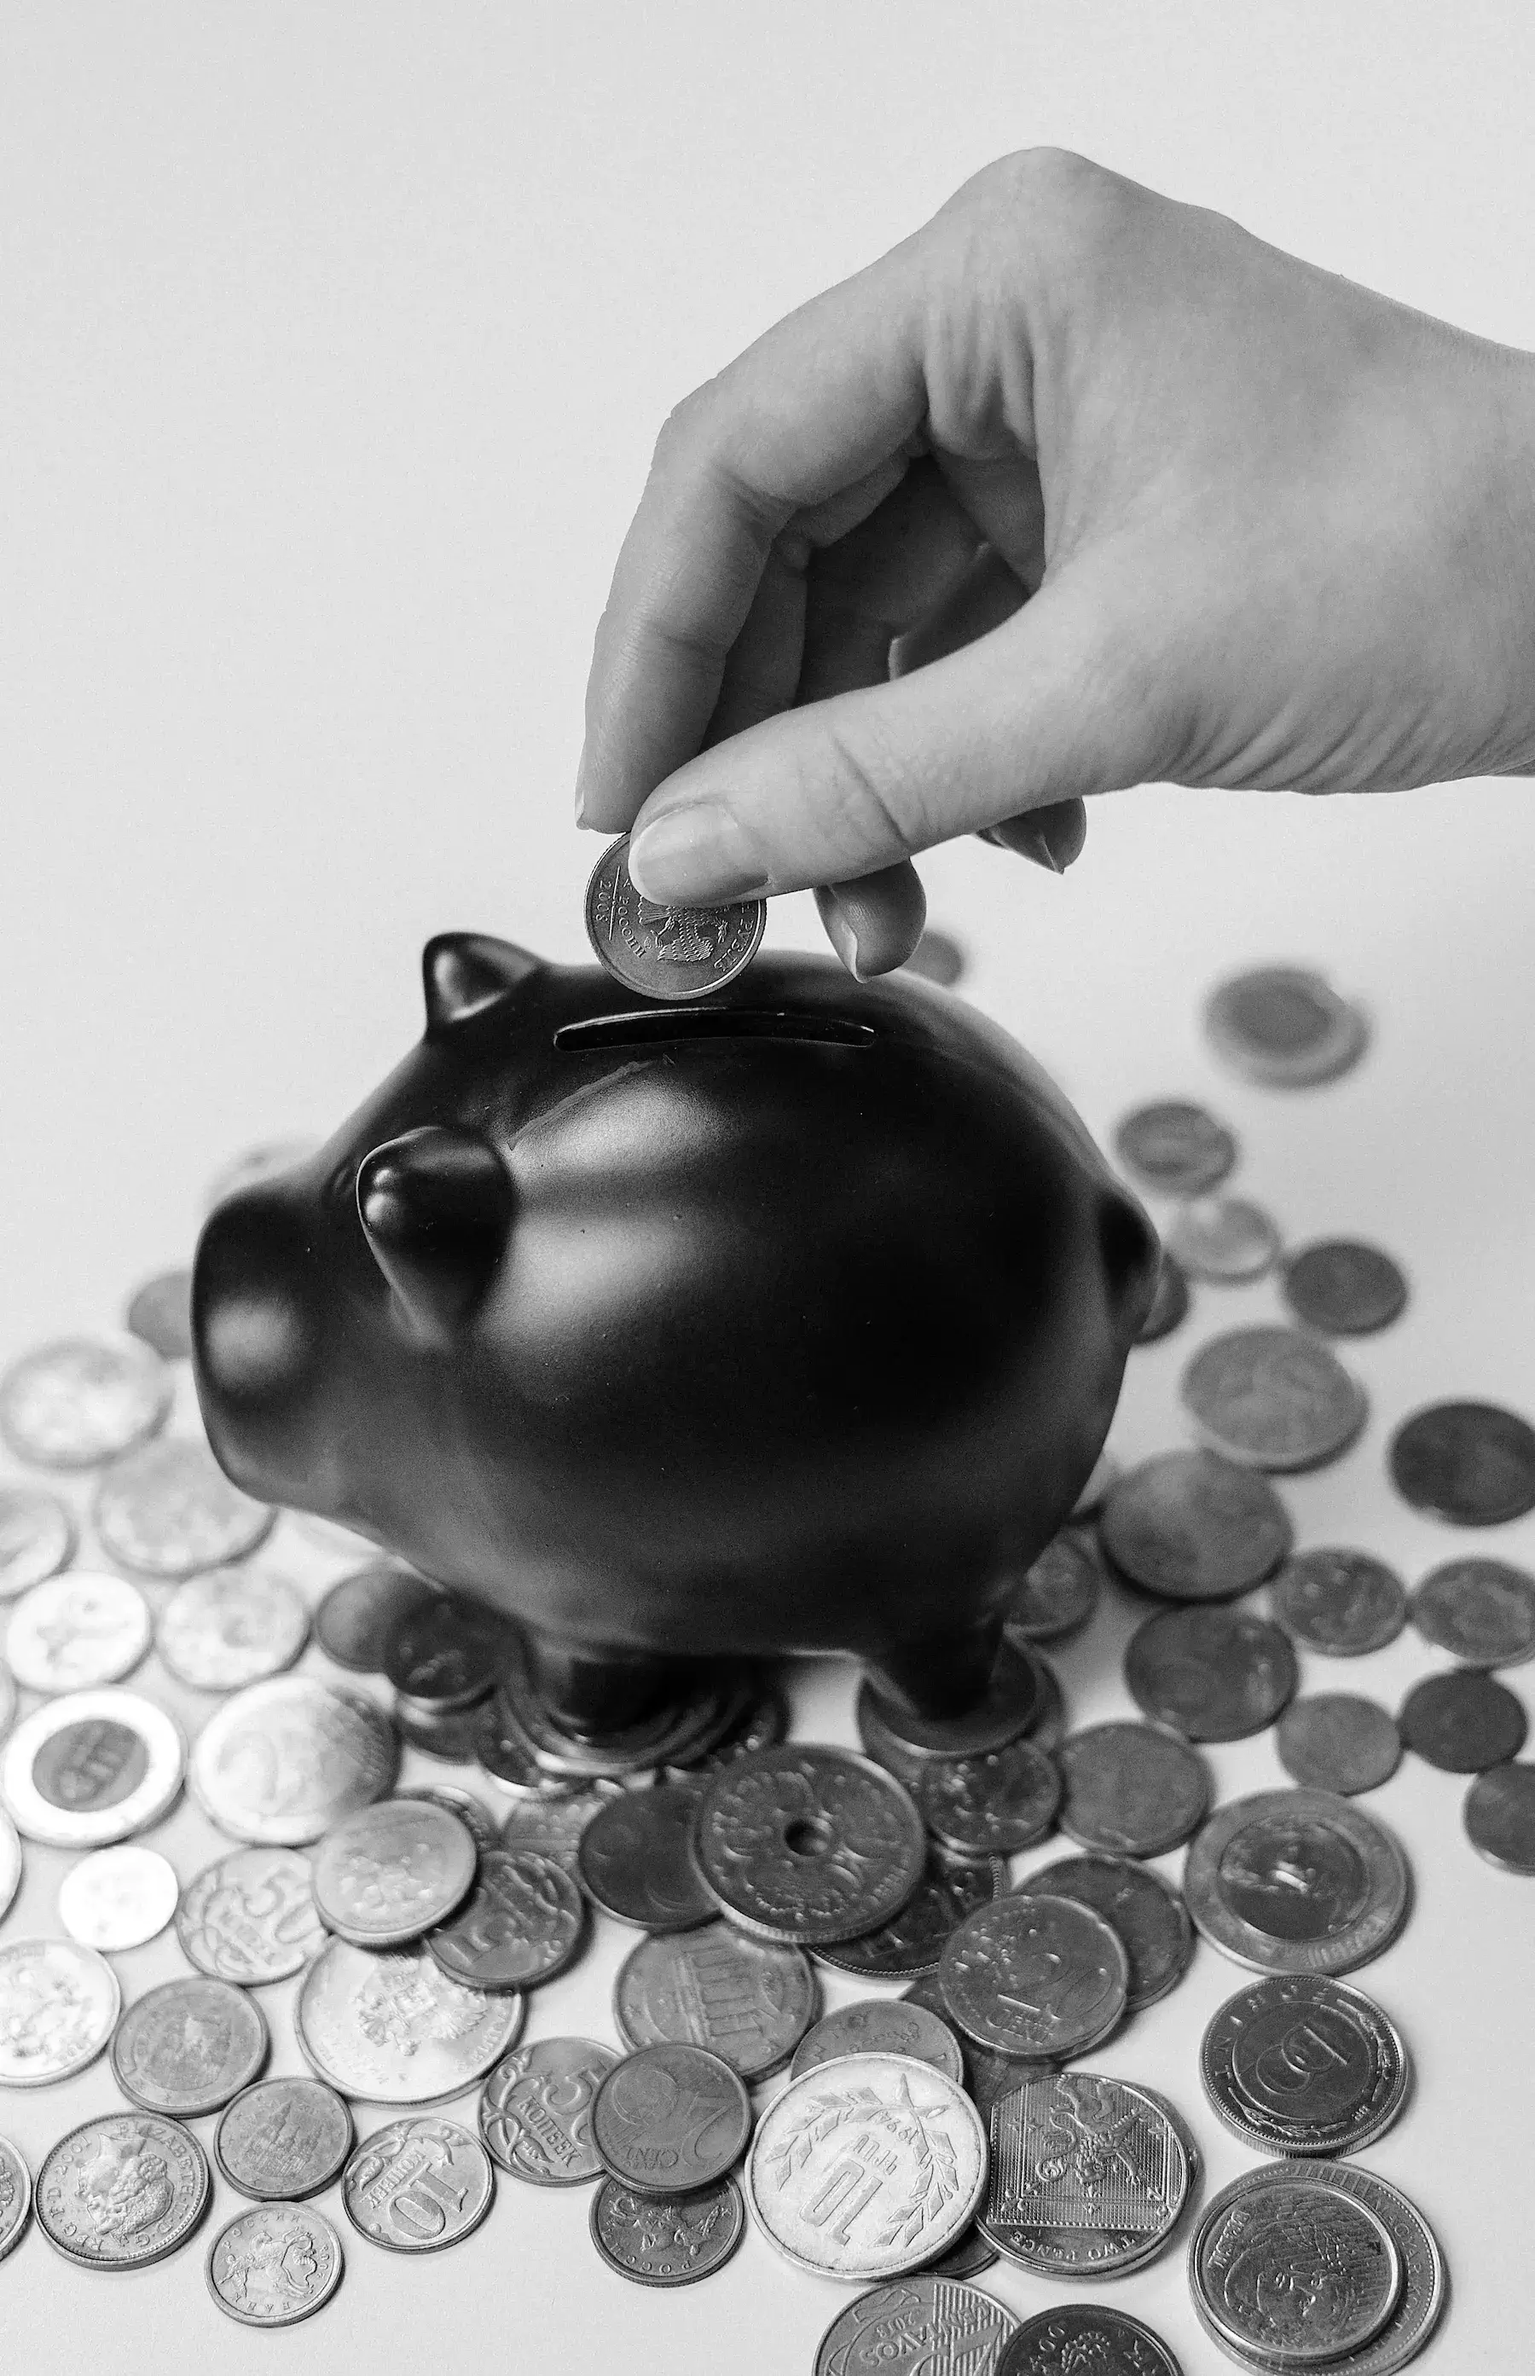
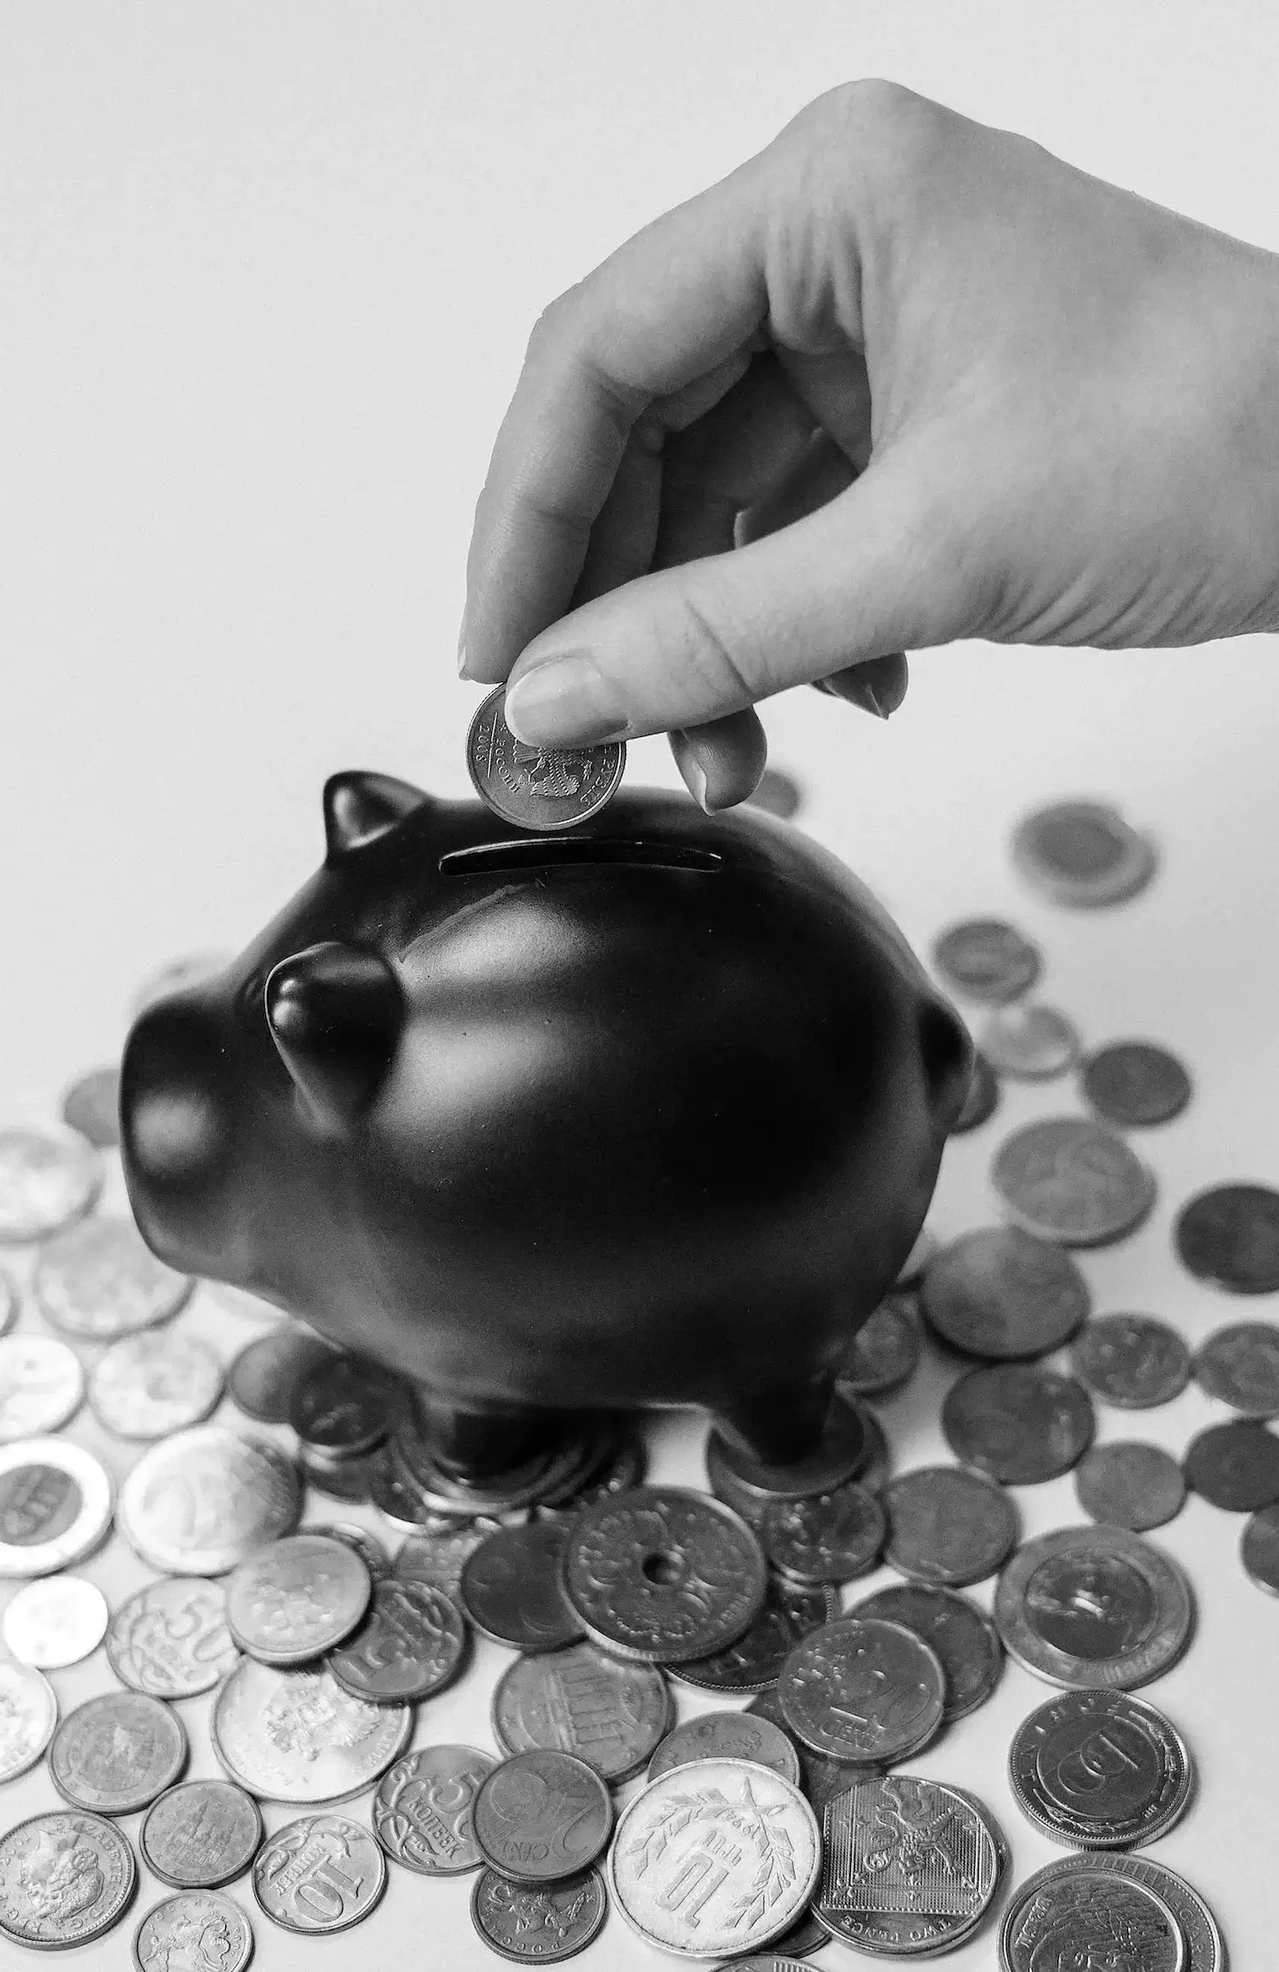
adjusted some sizing and testing deployment

diff --git a/css/home.css b/css/home.css
@@ -42,15 +42,14 @@
 .main img {
     display: block;
     margin: 0 auto;
-    width: 60%;
-    height: auto;
+    width: 1250px;
+    height: 1927px;
     border-radius: 5px;
 }
 
 #section1 {
     padding: 20px;
-    max-width: 1800px;
-    margin: 40px auto;
+    margin: 40px;
 }
 
 #section1 p {
@@ -192,6 +191,11 @@ button[type="submit"]:hover {
 
 /* Responsive styles */
 @media (max-width: 1800px) {
+    .main img {
+        width: 1100px;
+        height: 1695px;
+    }
+
     #section1 {
         max-width: 1450px;
     }
@@ -216,6 +220,11 @@ button[type="submit"]:hover {
 }
 
 @media (max-width: 1500px) {
+    .main img {
+        width: 950px;
+        height: 1464px;
+    }
+
     #section1 {
         max-width: 1200px;
     }
@@ -232,10 +241,6 @@ button[type="submit"]:hover {
 
     .main p {
         left: 15%;
-    }
-
-    .main img {
-        width: 80%;
     }
 
     #section1 {
@@ -266,6 +271,11 @@ button[type="submit"]:hover {
 }
 
 @media (max-width: 1050px) {
+    .main img {
+        width: 750px;
+        height: 1156px;
+    }
+
     #section0 p {
         padding: 20px 90px;
     }
@@ -296,6 +306,11 @@ button[type="submit"]:hover {
 }
 
 @media (max-width: 850px) {
+    .main img {
+        width: 650px;
+        height: 1002px;
+    }
+
     #section0 p {
         padding: 20px 60px;
     }
@@ -369,7 +384,8 @@ button[type="submit"]:hover {
     }
 
     .main img {
-        width: 70%;
+        width: 525px;
+        height: 809px;
     }
 
     #section1 {
